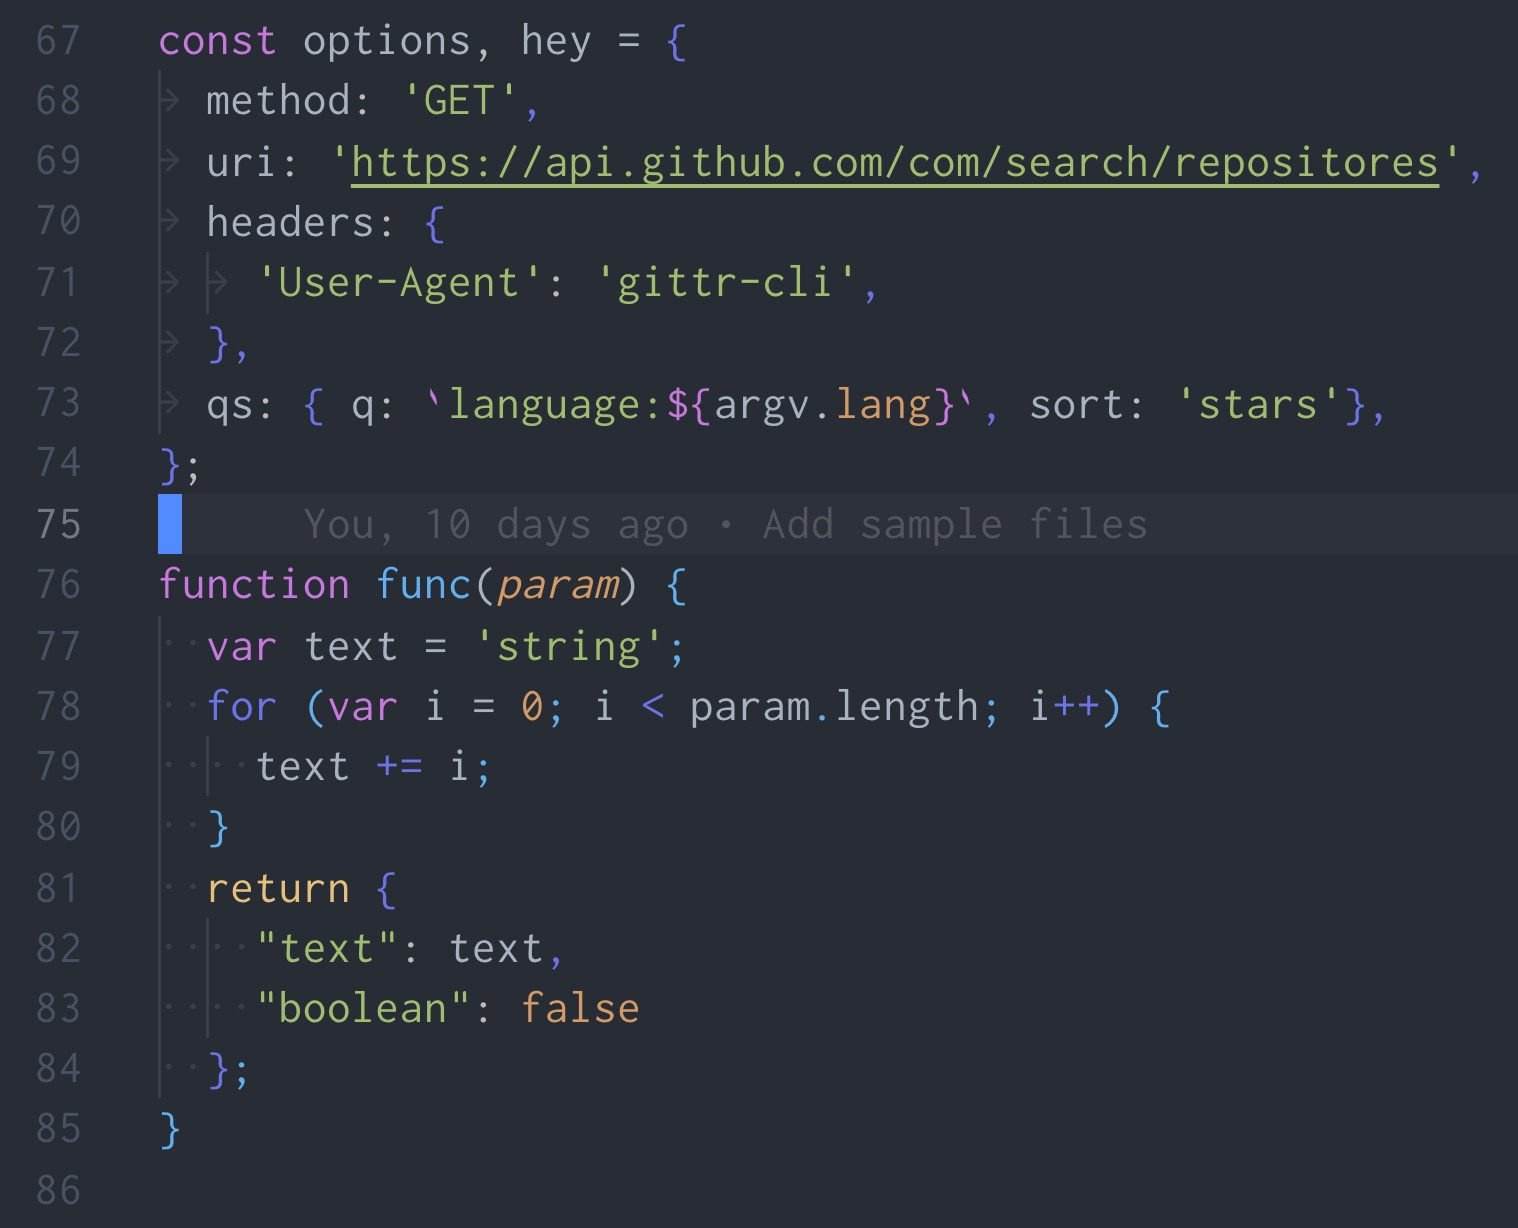
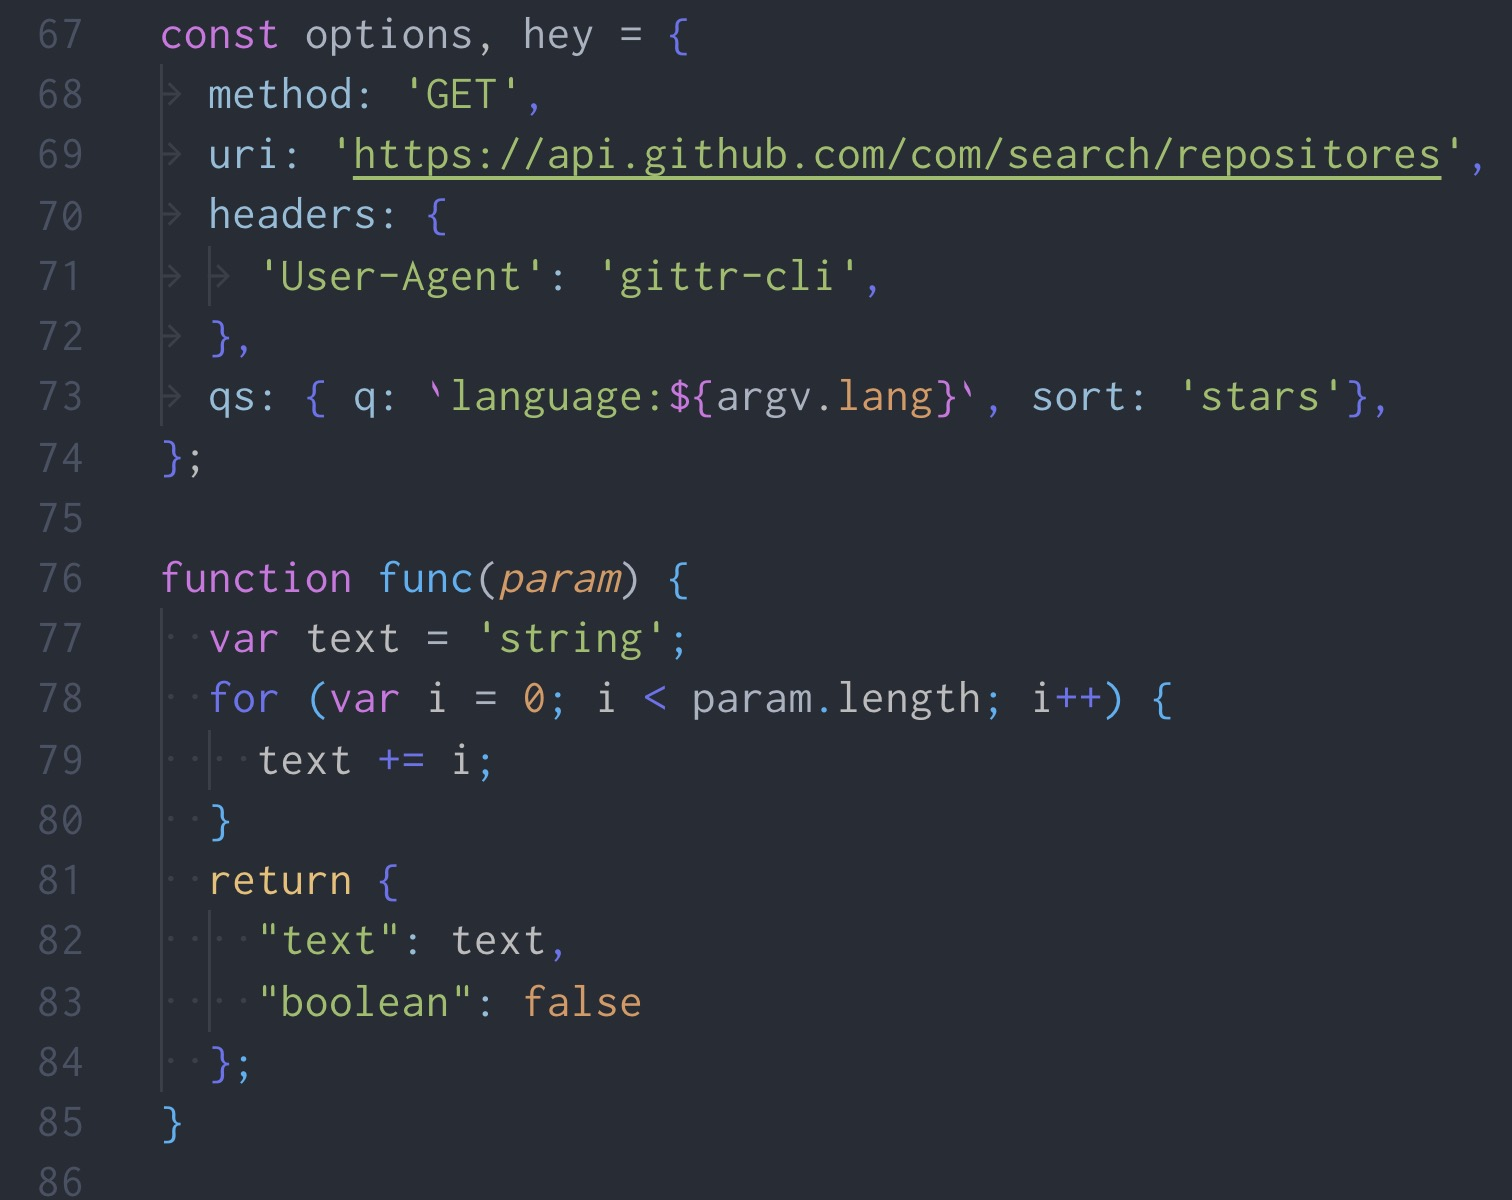
Changed color of JS object keys to give contrast to object values

diff --git a/src/syntax.js b/src/syntax.js
@@ -107,7 +107,7 @@ const configFactory = type => {
       name: 'js/ts punctuation separator key-value',
       scope: 'punctuation.separator.key-value',
       settings: {
-        foreground: colorObj['lightWhite']
+        foreground: colorObj['lightCyan']
       }
     },
     {
@@ -294,18 +294,19 @@ const configFactory = type => {
     {
       name: 'js variable readwrite',
       scope:
-        'variable.other.readwrite,meta.object-literal.key,support.variable.property,support.variable.object.process,support.variable.object.node',
+        'variable.other.readwrite,support.variable.property,support.variable.object.process,support.variable.object.node',
       settings: {
-        foreground: colorObj['lightGray']
+        foreground: colorObj['lightWhite']
       }
     },
-    // {
-    //   name: 'js variable readwrite',
-    //   scope: 'meta.object-literal.key',
-    //   settings: {
-    //     fontStyle: 'italic'
-    //   }
-    // },
+    {
+      name: 'js variable readwrite',
+      scope: 'meta.object-literal.key',
+      settings: {
+        // fontStyle: 'italic'
+        foreground: colorObj['lightCyan']
+      }
+    },
     {
       name: 'array-literal brace',
       scope: [

diff --git a/CHANGELOG.md b/CHANGELOG.md
@@ -1,4 +1,7 @@
 # CHANGELOG
+## 1.0.9
+- Changed color of JS object keys to give contrast to object values
+
 ## 1.0.8
 - Update color of JSX components for better contrast with props
 
